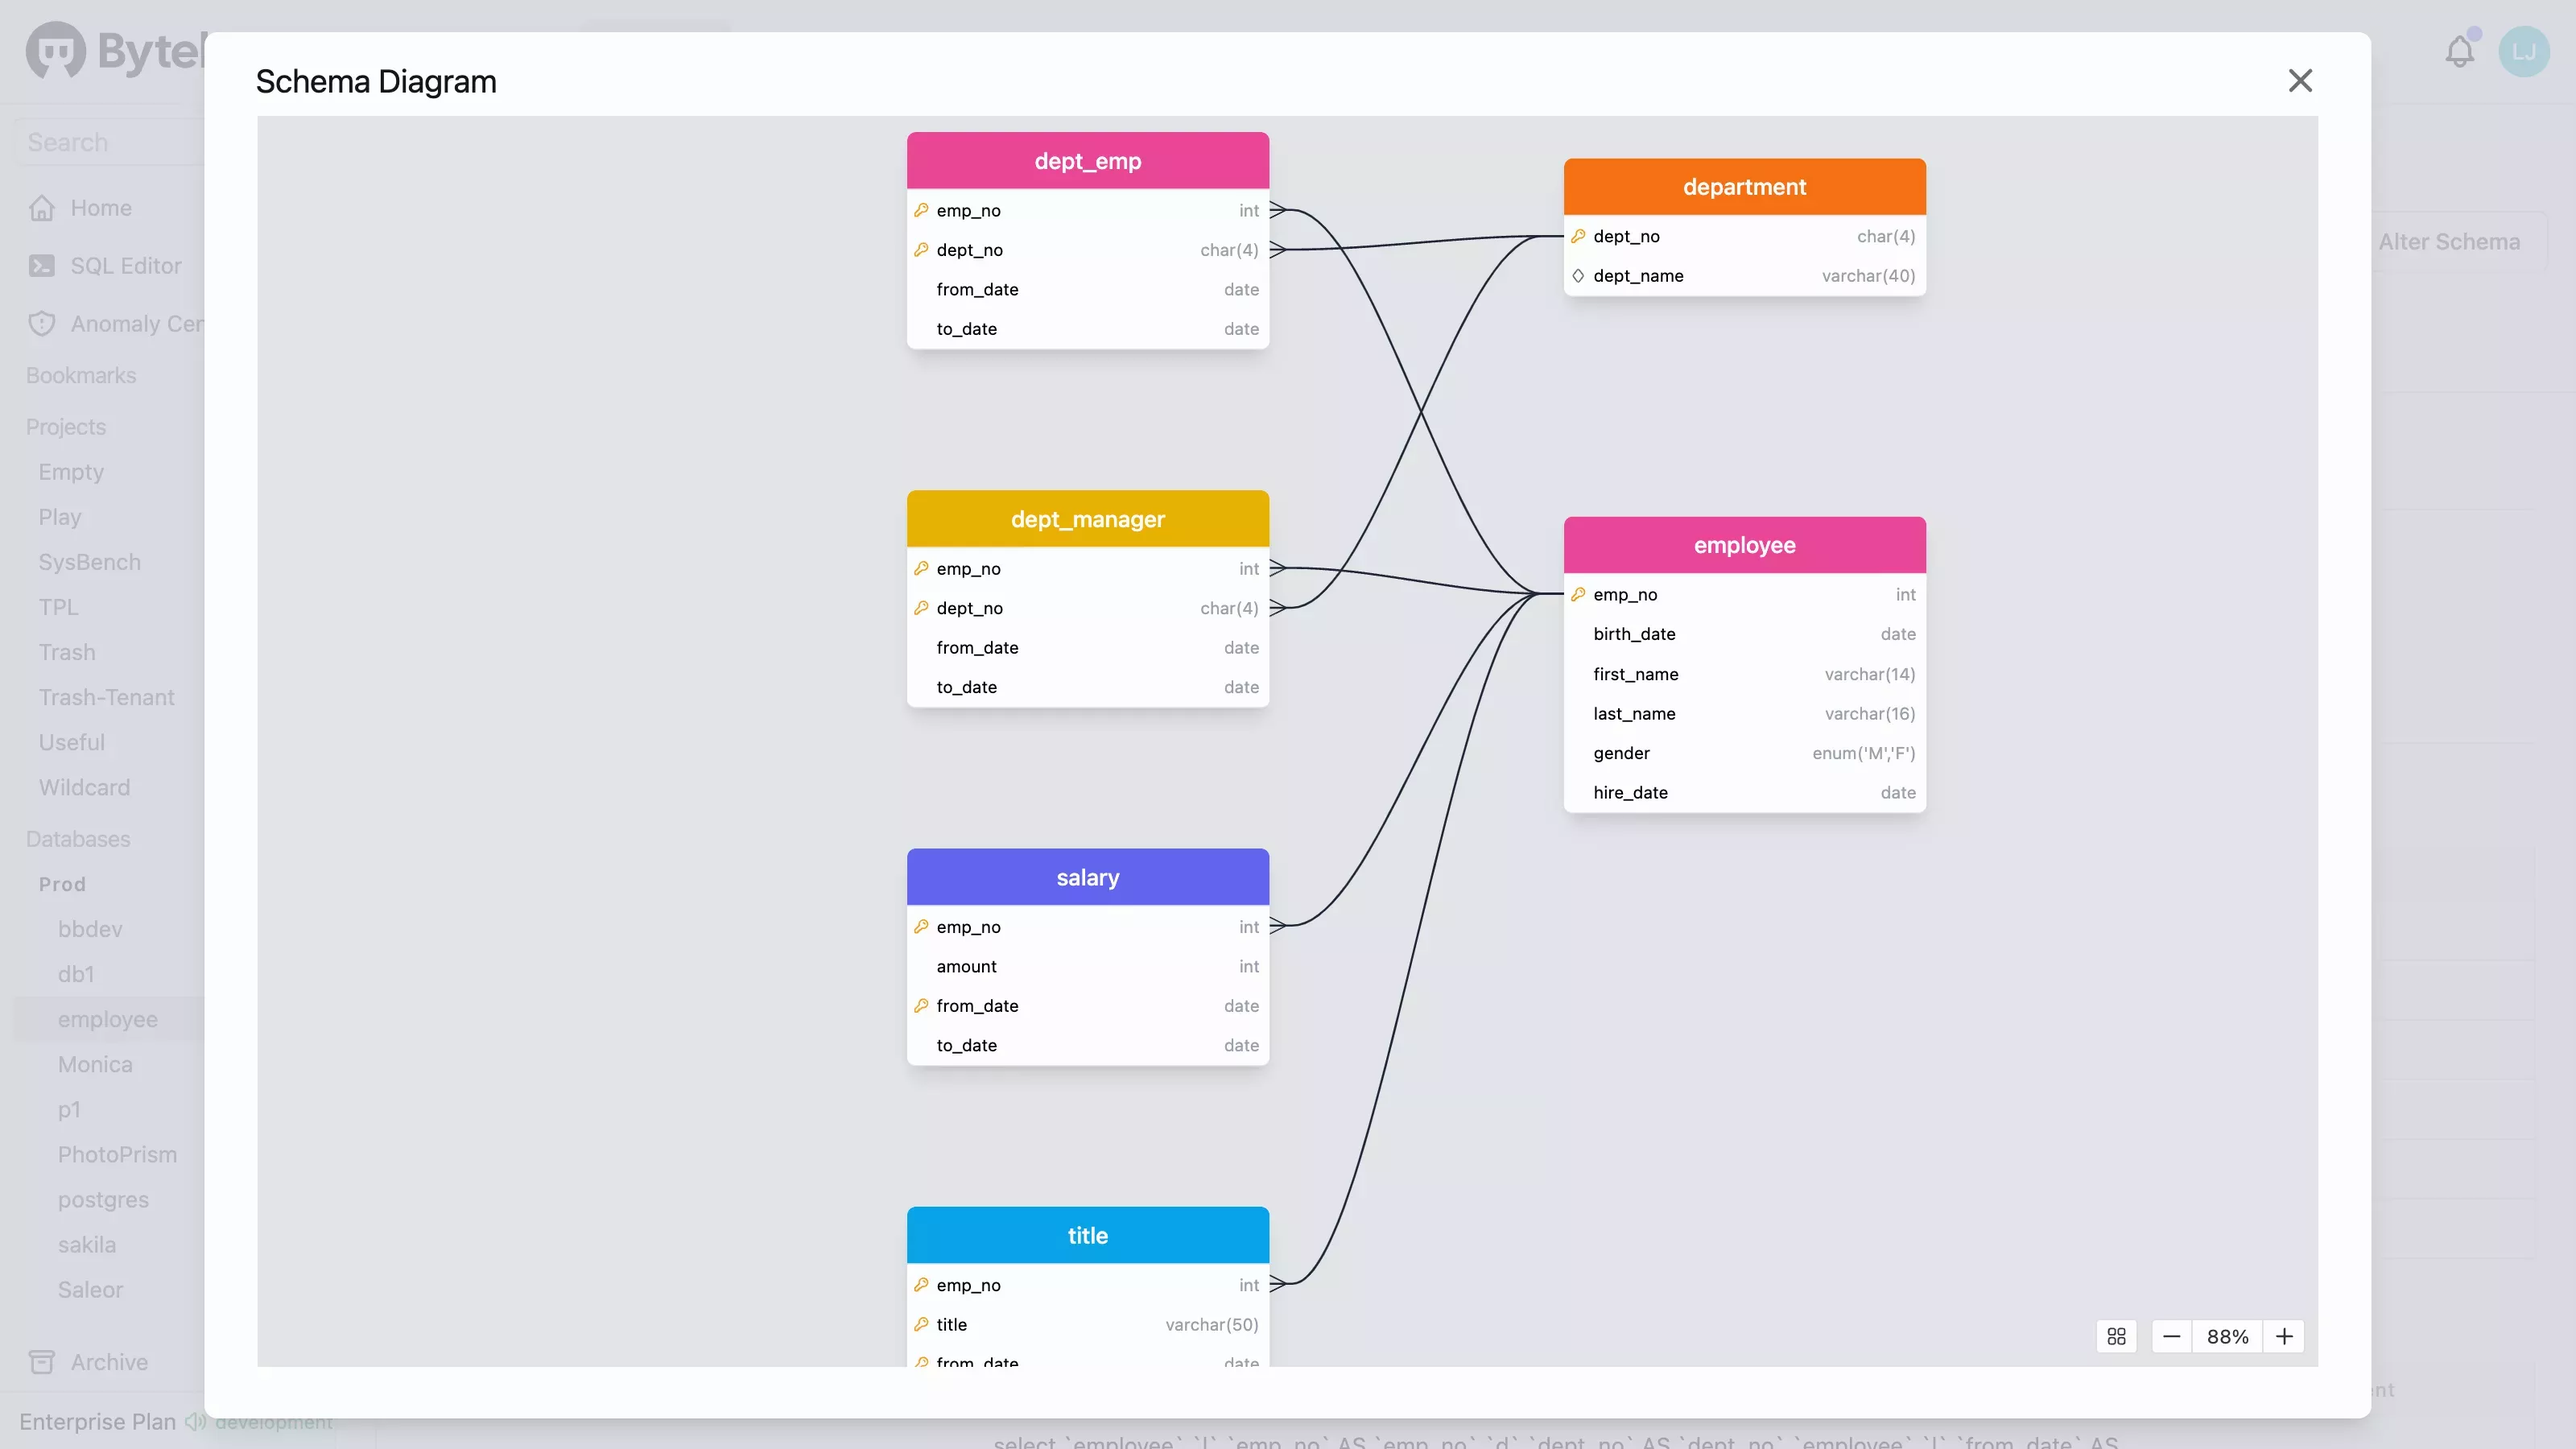
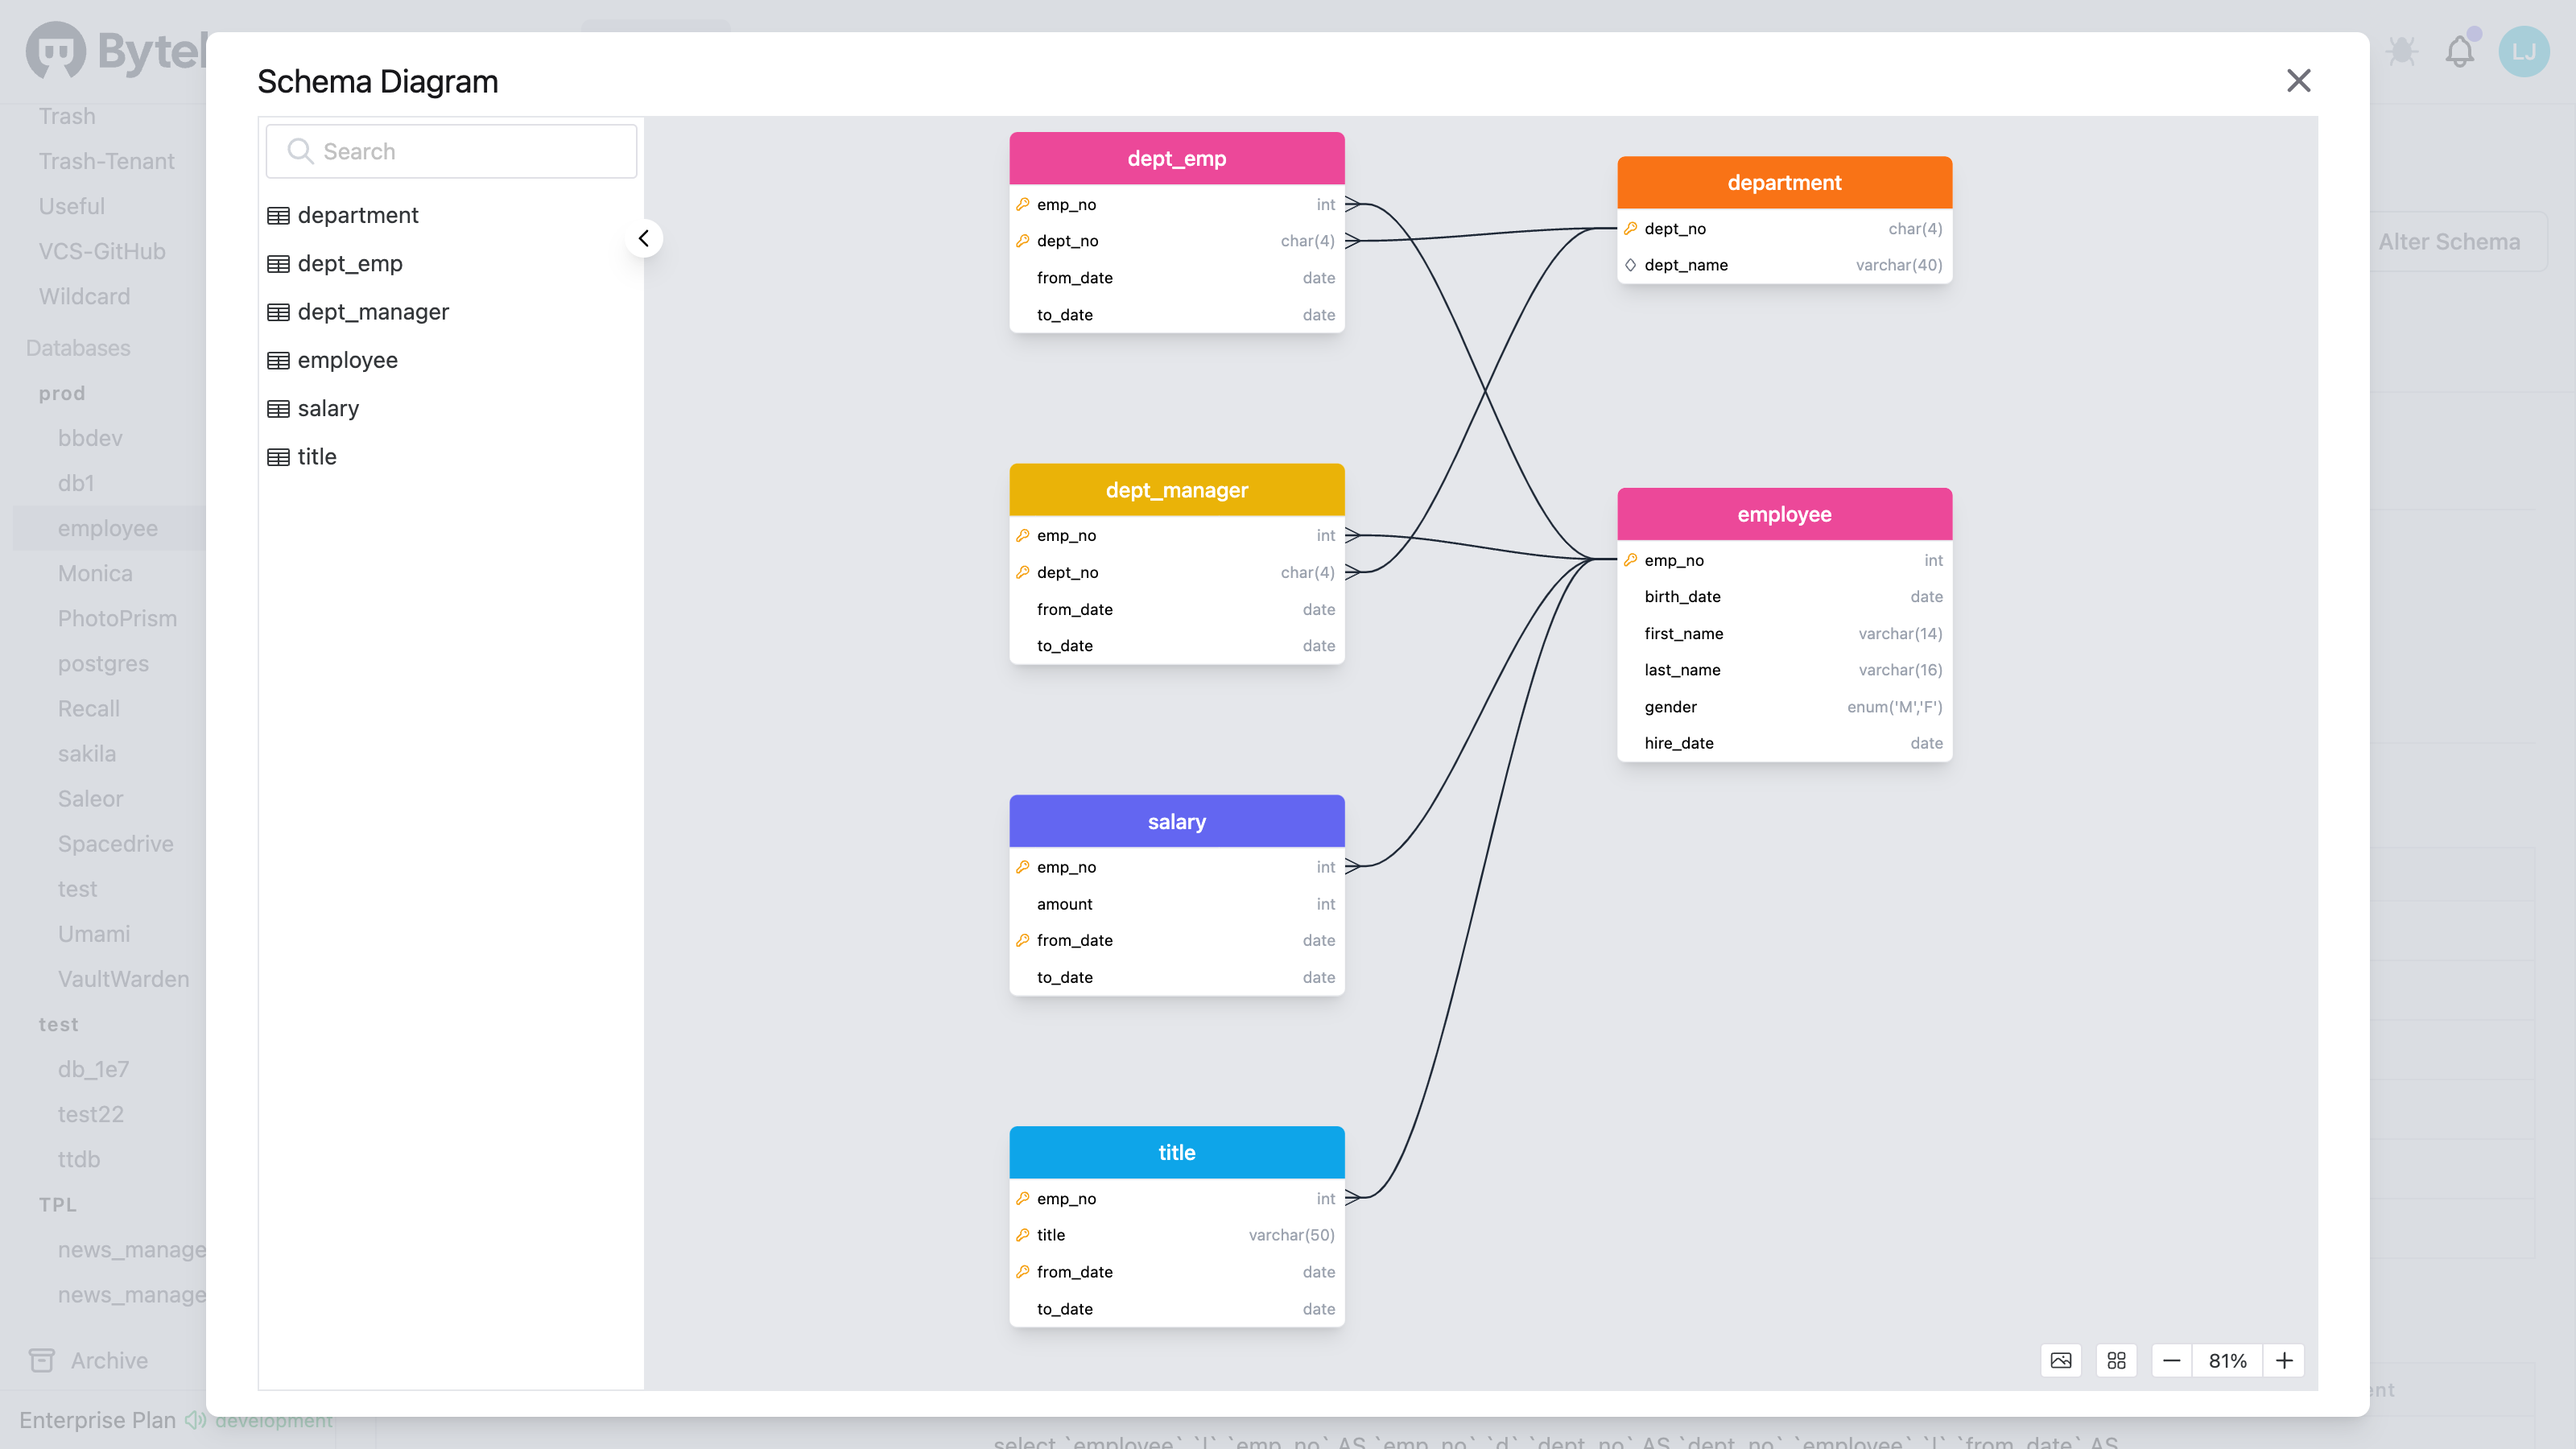
docs: schema diagram v0.2 (#798)

diff --git a/content/docs/change-database/schema-diagram.md b/content/docs/change-database/schema-diagram.md
@@ -20,9 +20,21 @@ Click **Schema Diagram** in the database detail page, you will see the Schema Di
 
 **Drag the canvas** to move. Use **mouse wheel**, **trackpad** or **click the -/+ buttons** to zoom in and out.
 
+Use the **search box** to filter databases by name.
+
+![filter-databases](/static/docs/change-database/schema-diagram/filter-databases.webp)
+
+Click the **Focus** button in the schema tree or the table header to toggle table highlighting.
+
+![focus-tables](/static/docs/change-database/schema-diagram/focus-tables.webp)
+
 Click the **Fit content within view** button to restore the initial position and zoom.
 
 ![fit-content-within-view](/static/docs/change-database/schema-diagram/fit-content-within-view.webp)
+
+Click the **Screenshot** button to export current view as a PNG file.
+
+![screenshot-button](/static/docs/change-database/schema-diagram/screenshot-button.webp)
 
 ## Working with Schema Editor
 
